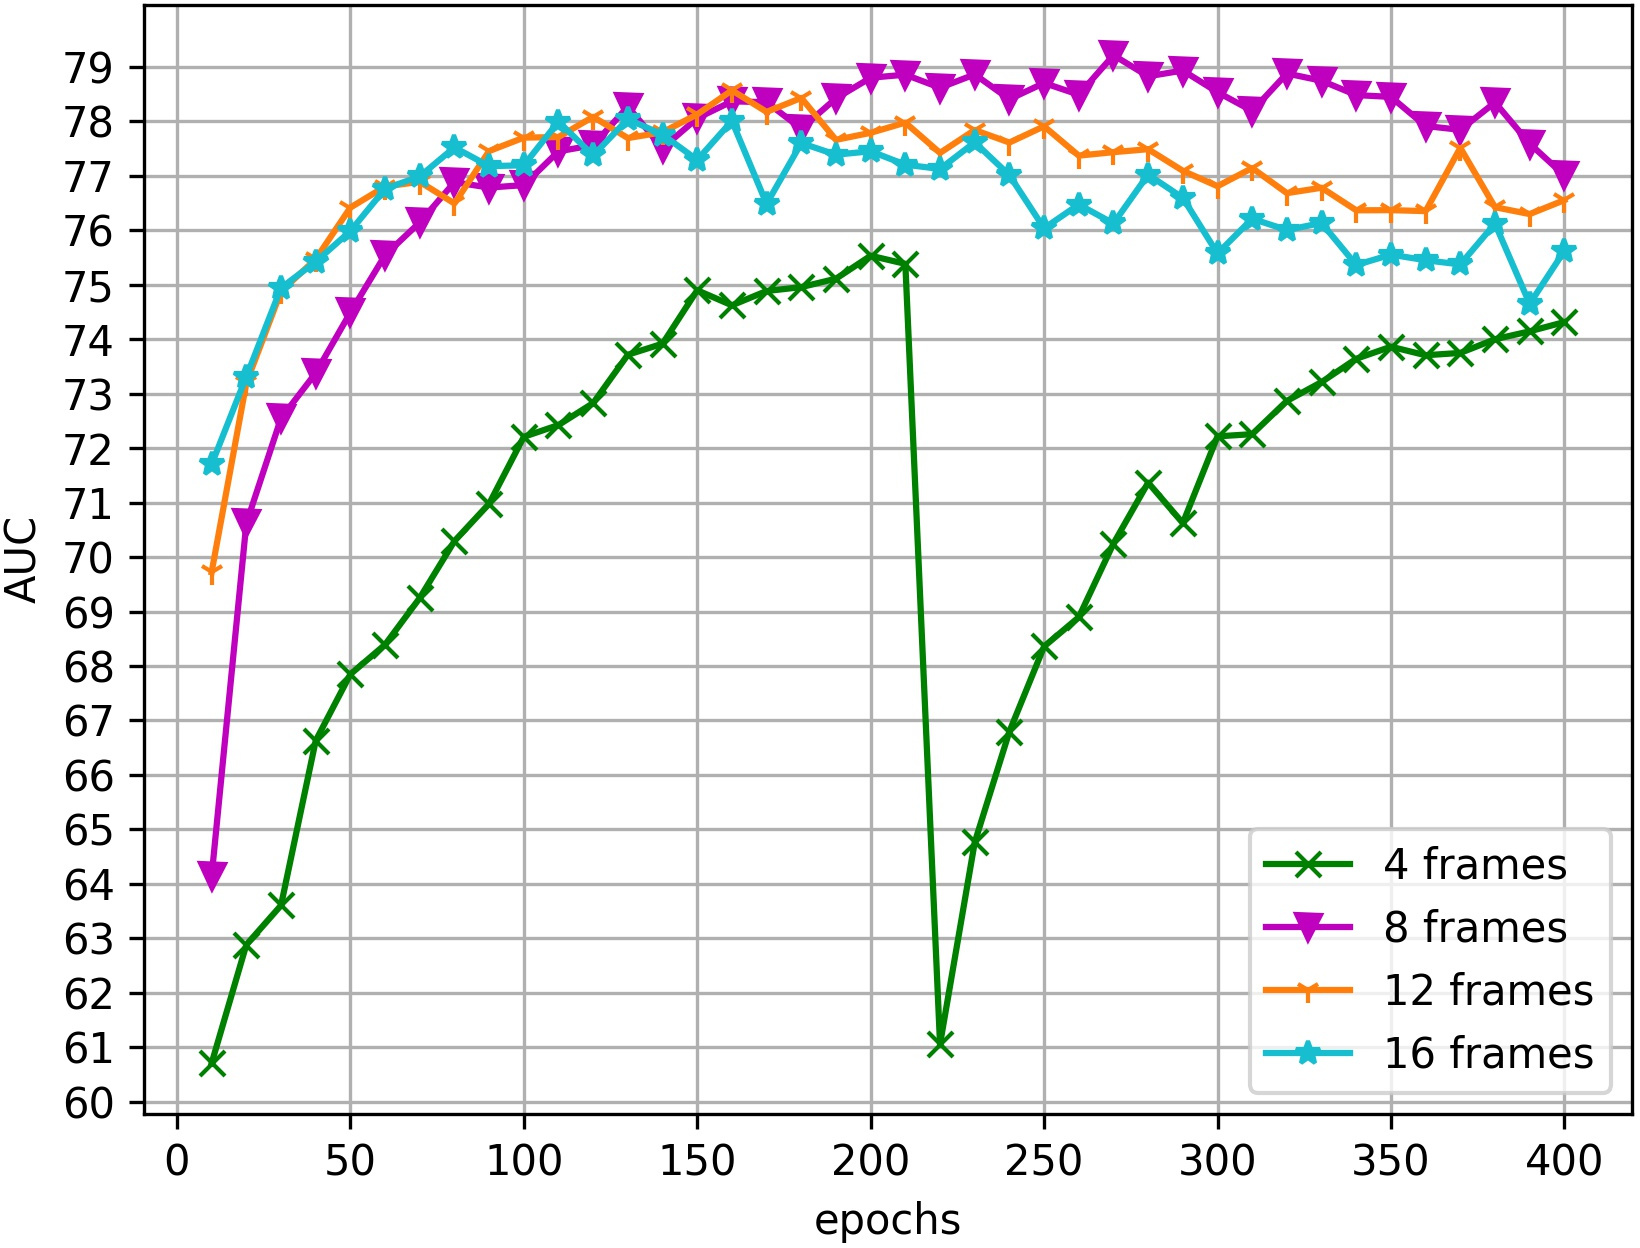
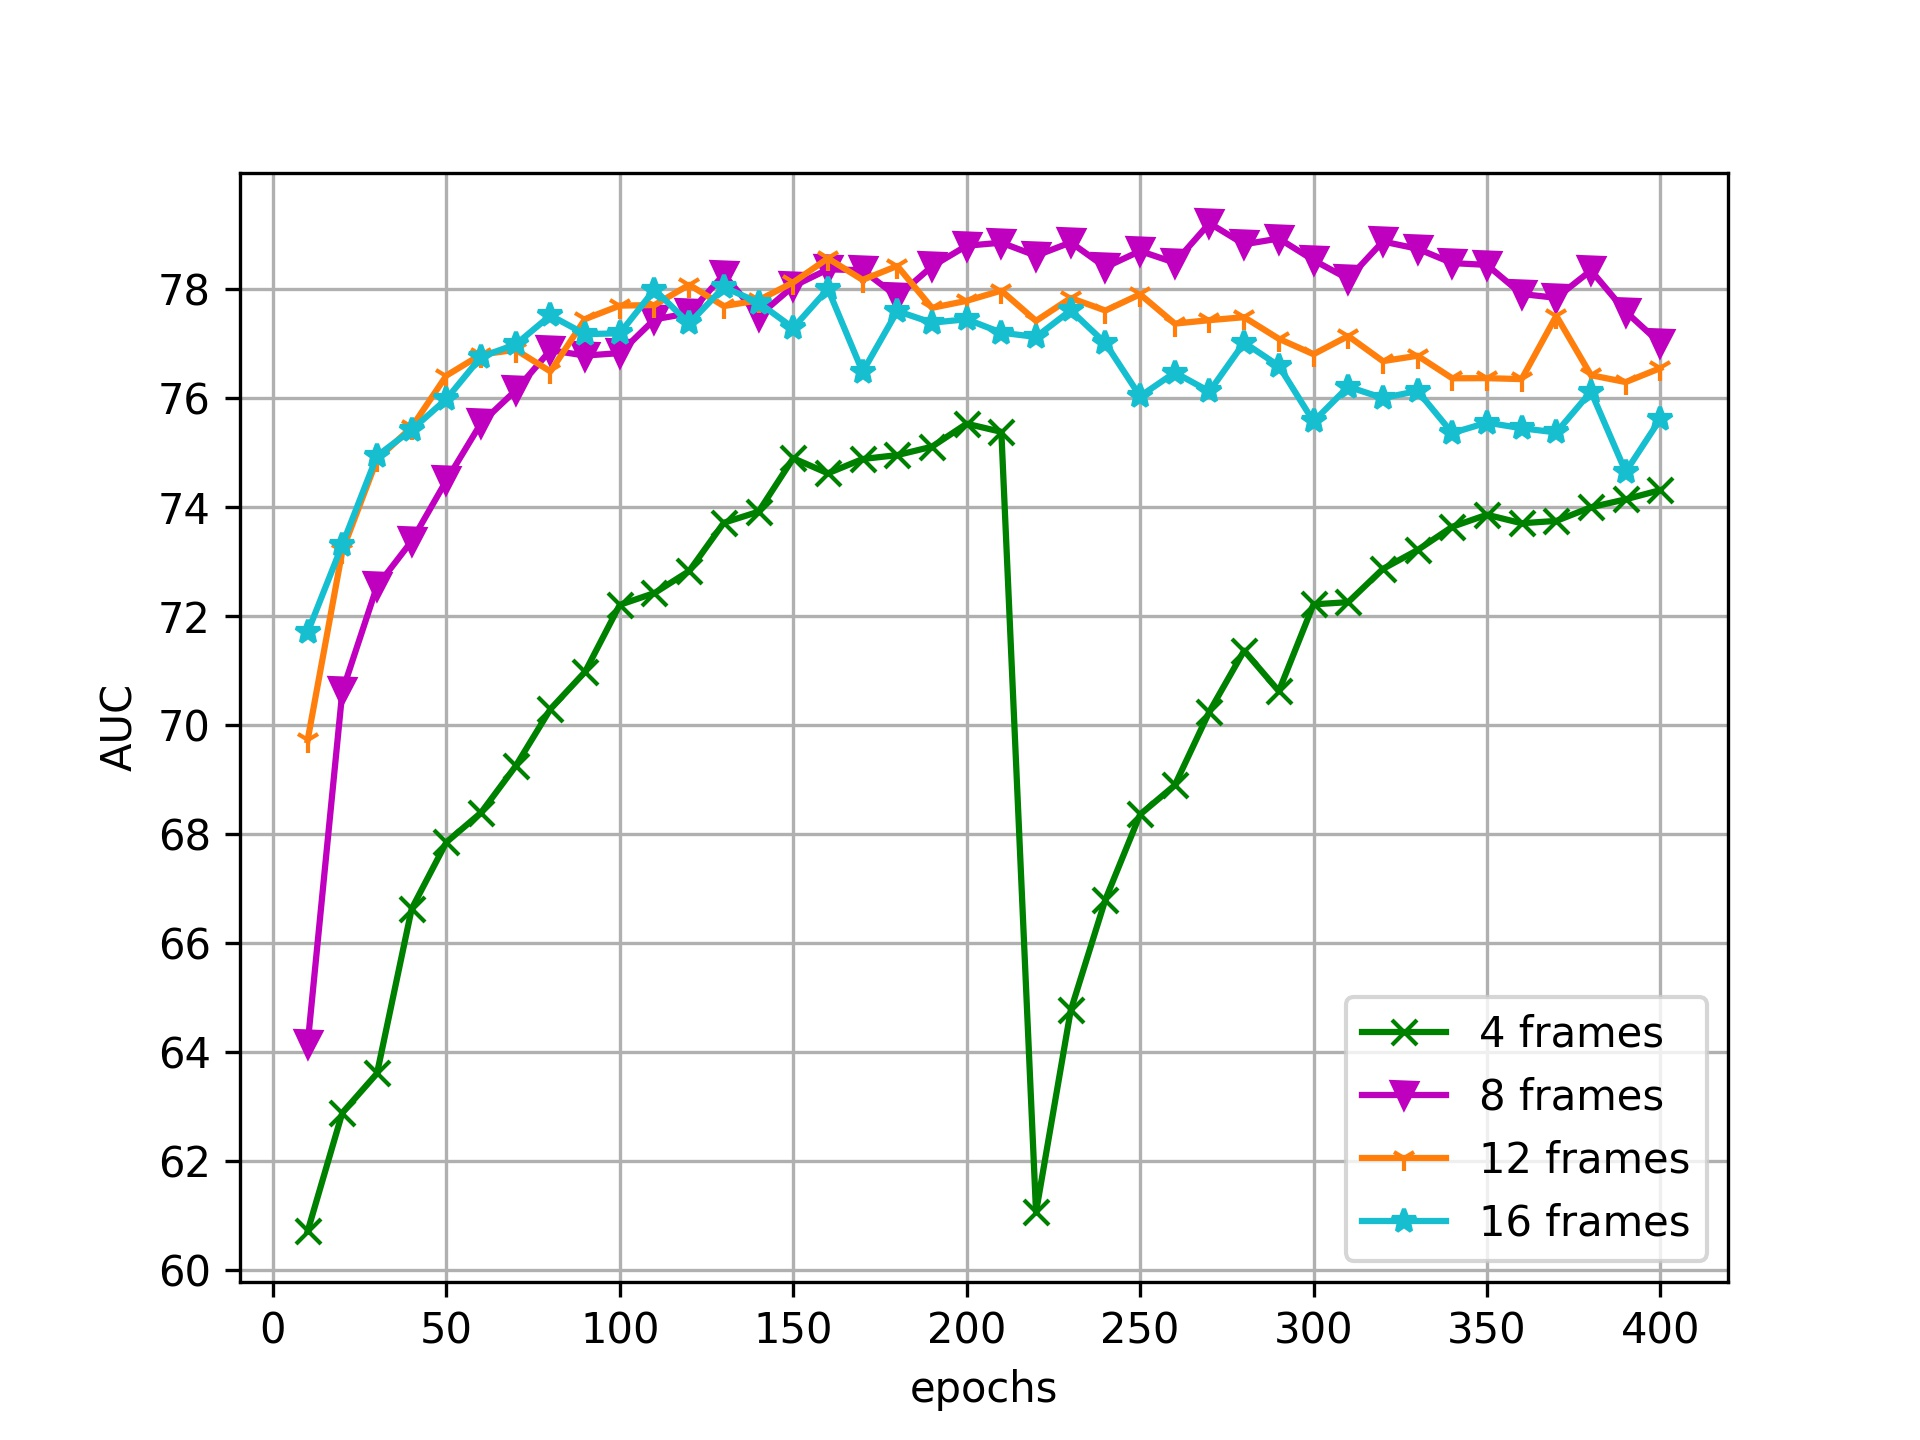
Update on Overleaf.

Changed region(s): [[0.0, 0.0, 1.0, 1.0]]

diff --git a/experiments.tex b/experiments.tex
@@ -7,7 +7,7 @@ We perform our training and test on Task~1, the frame-level VAD, of DoTA dataset
 %We use the original dataset split, which approximately divide the training and validation in $70\%$ and $30\%$.
 % , that is the most realistic and most interesting condition from our point of view.
 
-\newcommand{\figsize}{0.8\columnwidth}
+\newcommand{\figsize}{0.9\columnwidth}
 
 \begin{figure}[t!]
 \centerline{\includegraphics[clip,width=\figsize]{images/exp_1.jpg}}

diff --git a/scripts/show_plot.py b/scripts/show_plot.py
@@ -26,7 +26,7 @@ df.plot(kind='line', x='epochs', ax=ax)
 ax.set_ylabel('AUC')
 ax.yaxis.set_ticks(
     np.arange(floor(min(df.iloc[:, 1:].min())),
-              round(max(df.iloc[:, 1:].max()))+0.5, 1.))
+              round(max(df.iloc[:, 1:].max()))+0.5, 2.))
 ax.grid(True)
 
 colors = ['g', 'm', 'tab:orange', 'tab:cyan', 'b', 'y']
